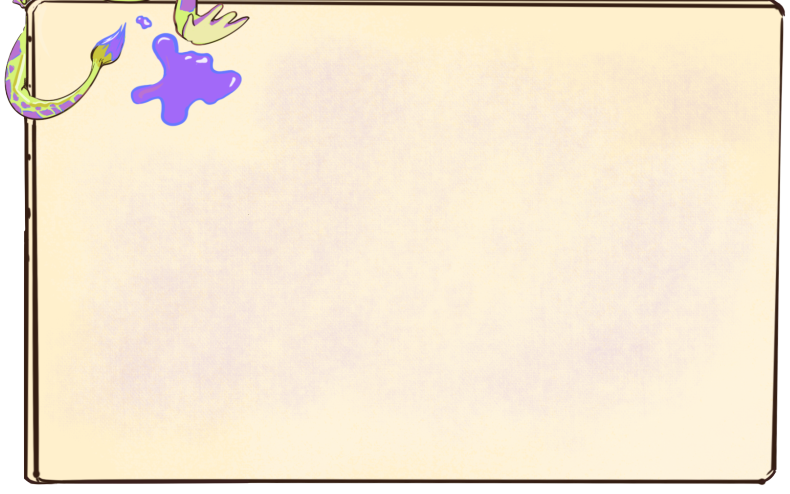
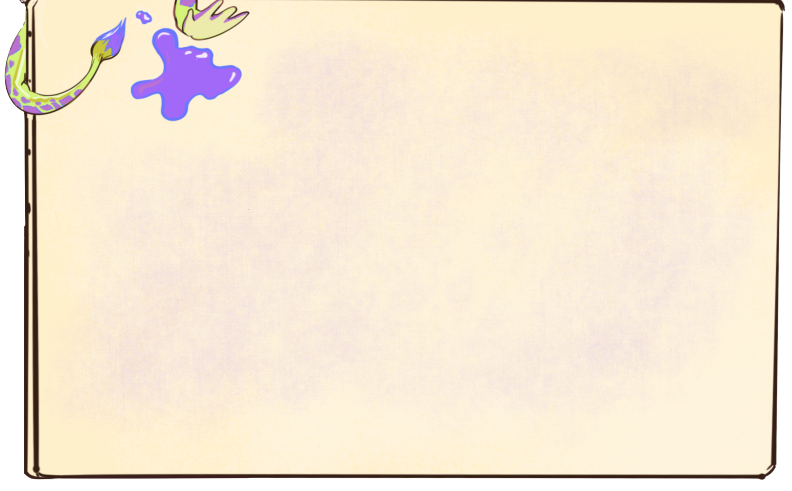
add nav bar + lot of tiny clean

Changed region(s): [[0.0, 0.0, 1.0, 1.0], [0.0304, 0.3055, 0.0608, 0.336]]

diff --git a/index.html b/index.html
@@ -18,7 +18,18 @@
 </head>
 
 <body>
-    <!-- banner -->
+  <nav>
+    <div class="container">
+      <a id="sec-1" href="#banner">
+        <img style="height: 60px" src="img/logo.png" alt="logo">
+      </a>
+      <ul>
+        <li><a id="sec-2" href="#feature">О нас</a></li>
+        <li><a id="sec-3" href="#schedule">Расписание</a></li>
+      </ul>
+    </div>
+  </nav>
+  <!-- banner -->
     <div class="jumbotron jumbotron-fluid d-flex flex-column" id="banner">
         <img src="img/landing-top.png"/>
         <div id="banner-background" class="container text-center text-md-left" style="background-image: url(img/landing-bottom.png);">
@@ -30,15 +41,15 @@
                       </div>
                   </div>
               </header> -->
-              <h1 data-aos="fade" data-aos-easing="linear" data-aos-duration="1000" data-aos-once="true" class="display-3 text-white font-weight-bold my-5">
-                Уютная<br>
-                художественная<br>
+              <h1 data-aos="fade" data-aos-easing="linear" data-aos-duration="1000" data-aos-once="true" class="display-3 font-weight-bold my-5">
+                Уютная<br/>
+                художественная<br/>
                 студия в Барселоне
               </h1>
-              <h3 data-aos="fade" data-aos-easing="linear" data-aos-duration="1000" data-aos-once="true" class="lead text-white my-4">
-                -Научитесь рисовать с нуля<br>
-                -Отдохнете от рутины с вином и искусством<br>
-                -Найдете компанию единомышленников<br>
+              <h3 data-aos="fade" data-aos-easing="linear" data-aos-duration="1000" data-aos-once="true" class="lead my-4">
+                -Научитесь рисовать с нуля<br/>
+                -Отдохнете от рутины с вином и искусством<br/>
+                -Найдете компанию единомышленников<br/>
               </h3>
               <a href="#" data-aos="fade" data-aos-easing="linear" data-aos-duration="1000" data-aos-once="true" class="btn my-4 font-weight-bold atlas-cta cta-orange">Sign Up</a>
           </div>
@@ -66,21 +77,22 @@
         </div>
     </div> -->
     <!-- feature -->
-    <div class="jumbotron jumbotron-fluid feature" id="feature-last">
+    <div class="jumbotron jumbotron-fluid feature" id="feature">
         <div class="container">
             <div class="row justify-content-between text-center text-md-left">
-                <div data-aos="fade-left" data-aos-duration="1000" data-aos-once="true" class="col-md-6 flex-md-last align-self-center">
+                <div id="feature-list" data-aos="fade-left" data-aos-duration="1000" data-aos-once="true" class="col-md-6 flex-md-last align-self-center">
                     <h2 class="font-weight-bold text-center">
-                      Ведущая мастер классов<br>
+                      Ведущая мастер классов<br/>
                       Мария Калатозишвили
                     </h2>
-                    <h3 style="margin: 50px 0">
-                      - Преподает рисование с 2018 года<br>
-                      - Основатель студии анимации и комиксов “Weird Sisters”<br>
-                      - Окончила факультет искусств Оукландского Колледжа в Англии<br>
-                      - Работала художником в СоюзМультфильм <br>
-                      - Продала 100% картин, написанных на продажу <br>
+                    <div style="margin: 50px 0">
+                      <h3>- Преподает рисование с 2018 года</h3>
+                      <h3>- Основатель студии анимации и комиксов “Weird Sisters”</h3>
+                      <h3>- Окончила факультет искусств Оукландского Колледжа в Англии</h3>
+                      <h3>- Работала художником в СоюзМультфильм </h3>
+                        <h3>- Продала 100% картин, написанных на продажу </h3>
                     </h3>
+                    </div>
                 </div>
                 <div data-aos="fade-right" data-aos-duration="1000" data-aos-once="true" class="col-md-6 align-self-center flex-md-first">
                     <img src="img/photo_for_bio.png"  class="mx-auto d-block">
@@ -90,7 +102,7 @@
     </div>
 
     <!-- schedule table -->
-    <div class="container my-5 py-2" id="price-table">
+    <div class="container my-5 py-2" id="schedule">
         <h2 class="text-center font-weight-bold d-block mb-3">Schedule an appointment</h2>
         <iframe src="https://app.acuityscheduling.com/schedule.php?owner=31617791" title="Schedule Appointment" width="100%" height="800" frameBorder="0"></iframe><script src="https://embed.acuityscheduling.com/js/embed.js" type="text/javascript"></script>
     </div>
@@ -102,7 +114,7 @@
                     <h2 class="font-weight-bold">Contact Us</h2>
                     <p class="my-4">
                         Te iisque labitur eos, nec sale argumentum scribentur,
-                        <br> augue disputando in vim. Erat fugit sit at, ius lorem.
+                        <br/> augue disputando in vim. Erat fugit sit at, ius lorem.
                     </p>
                     <ul class="list-unstyled">
                         <li>Email : company_email@com</li>

diff --git a/css/custom.css b/css/custom.css
@@ -2,9 +2,51 @@
 :root {
   --main-color: #fff0cc;
   --main-color-darker: #fee6ac;
+  --main-font: #3d1019;
+  --main-font-lighter: white;
 }
 body {
   background-color: var(--main-color) !important;
+  padding-top: 20px;
+}
+
+nav {
+  top: 0%;
+  width: 100%;
+  position: fixed;
+  background-color: var(--main-color-darker);
+  z-index: 1;
+}
+nav .container {
+  margin: 0 auto;
+  text-align: start;
+  display: flex;
+  flex-direction: row;
+}
+
+nav .container ul {
+  padding: 12px;
+  margin: 0;
+}
+nav .container ul li {
+  list-style: none;
+  display: inline-block;
+
+}
+nav .container ul li a:hover {
+  padding: 12px;
+  text-decoration: underline;
+}
+nav .container ul li a {
+  margin: 8px;
+  padding: 10px;
+  color: var(--main-font);
+  font-size: 1.2em;
+  text-decoration: none;
+  transition: all 0.3s ease-out;
+}
+nav .active {
+  border-bottom: 2px solid #d0d7d9;
 }
 
 h2 {
@@ -74,8 +116,14 @@ button {
 #banner {
   background-color: var(--main-color);  
   margin: 20px 0 !important;
+  padding: 20px 50px;
 }
 
+@media (min-width: 1200px) {
+  #banner {
+    padding: 20px 150px;
+  }
+}
 /********** banner **********/
 #banner-background {
   background-size: cover;
@@ -98,6 +146,13 @@ button {
 #banner h1 {
   text-align: center;
 }
+
+@media (min-width: 1200px) {
+  #banner .container{
+    padding: 20px 100px;
+    color: var(--main-font)
+  }
+}
 /********** feature (skew background) **********/
 .feature img {
     width: 100%;
@@ -108,22 +163,33 @@ button {
     background: var(--main-color);
 }
 
-#feature-last {
+#feature {
   background: var(--main-color);
 }
 
-/********** price table **********/
-#price-table {
+#feature h3 br{
+  display: block;
+    margin: 5px 0;
+}
+
+#feature-list {
+  border: 10px;
+  border-radius: 5%;
+  background: white;
+  padding: 45px;
+}
+/********** schedule **********/
+#schedule {
     padding-top: 4rem !important;
     padding-bottom: 4rem !important;
 }
 
-#price-table__premium {
+#schedule__premium {
     background: #192440;
     color: #ffffff;
 }
 
-#price-table ul li {
+#schedule ul li {
     padding: 5px 0;
 }
 
